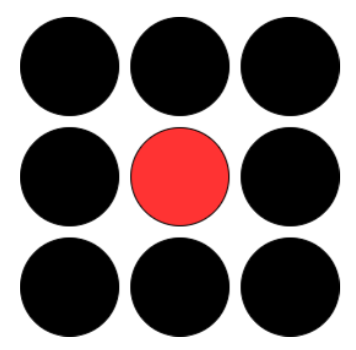
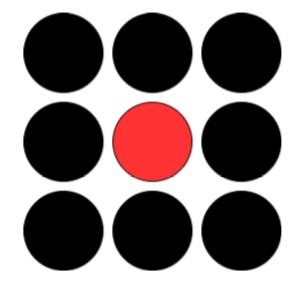
Add figure for happiness

diff --git a/README.md b/README.md
@@ -4,13 +4,19 @@ The Schelling Segregation model is a very simple model to demonstrate the effect
 
 In this model we assume a discrete 2-dimensional world on a regular NxN cell grid. In this world a given number of agents are randomly placed on cells. Each agent has a color of Red, Green or Blue. It is assigned randomly at the start of the model and will stay the same throughout the whole simulation.
 
+<p align="center">
+  <img align="center" src="./demo/happiness.png" alt="demo" width="100"/>
+</p>
+
+Figure 1: The Moore neighbourhood with the red cell being the point of reference and the black cells the 8 surrounding neighbours.
+
 Agents have a happiness measure, which is defined as the ratio of the number of neighbours with same color to the total number of neighbours. As neighbourhood we assume the Moore Neighbourhood (see Figure 1), which are the 8 surrounding cells of an agent. Note that in case of the border of the world, there might be less than 8 neighbours, but we will still use the same measurement of happiness.
 
 (a) t = 0          |  (b) t = 5        |        (c) t = 40
 :-------------------------:|:-------------------------:|:-------------------------:
 ![stage 1](demo/stage1.png)  |  ![](demo/stage2.png) | ![](demo/stage3.png)
 
-Visualisation of Schelling Segregation. After 40 steps the simulation is stable: all agents are happy and no more movement is happening.
+Figure 2: Visualisation of Schelling Segregation. After 40 steps the simulation is stable: all agents are happy and no more movement is happening.
 
 ## Demo
 
